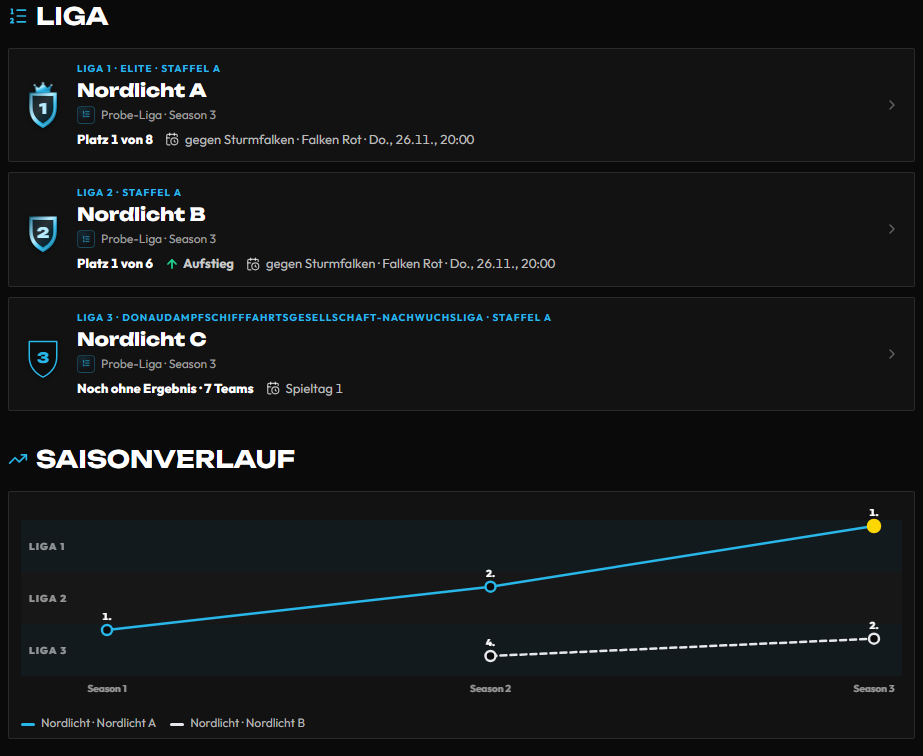
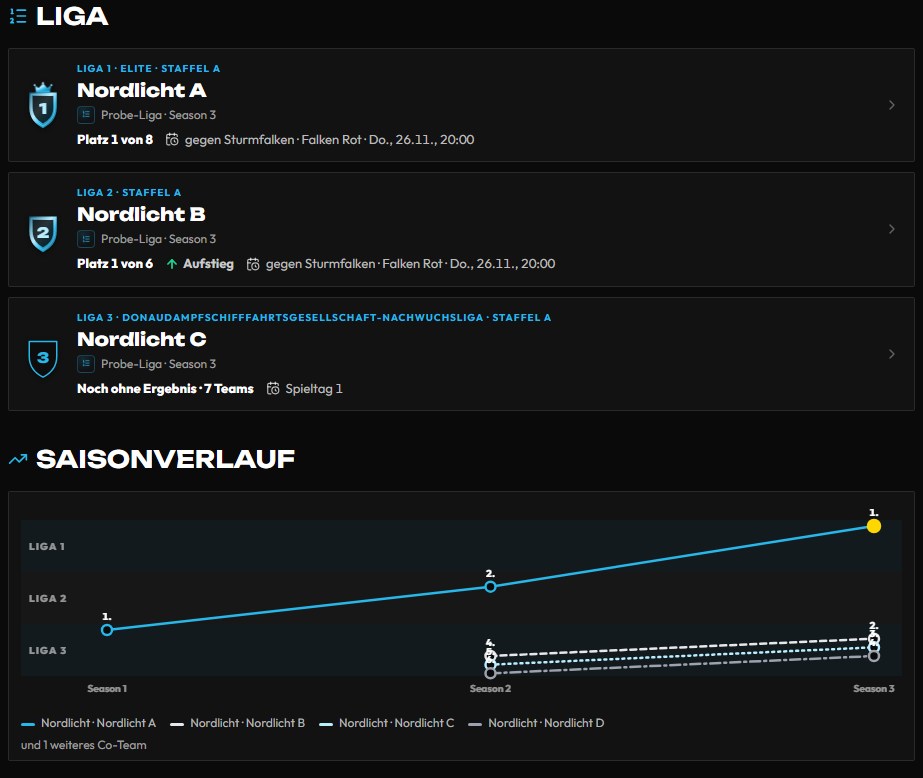
docs: Handbuch zu Meister-Gold und den vier Linien im Saisonverlauf (#1638, #1630)

diff --git a/docs/handbuch/liga.md b/docs/handbuch/liga.md
@@ -1717,7 +1717,7 @@ deren Seite die Person nicht öffnen darf, steht ohne Link da.
 
 **Liga-Abzeichen (#1638):** Überall, wo eine Liga N steht, zeigt ein Wappen mit ihrer Zahl die Stufe: **Liga 1** trägt eine Krone,
 einen doppelten Rand und einen zarten Glanz, **Liga 2** den doppelten Rand, ab **Liga 3** nur die Kontur. Die Farbe ist Cyan; **Gold**
-bekommt nur das Co-Team, das die Season gewonnen hat (Meister in der Season-Historie). Der Beiname der Liga N (2.3, z. B. „Elite“)
+tragen nur Wappen und das Wort „Meister“ beim Co-Team, das die Season gewonnen hat (Season-Historie); der Beiname bleibt Cyan. Der Beiname der Liga N (2.3, z. B. „Elite“)
 steht als Text daneben: „Liga 1 · Elite“. Zu sehen im Kopf jeder Liga N auf der Ligaseite, in **Aktuelle Ligen**, auf der Teamseite
 (Abschnitt *Liga*), in der Season-Historie und in der Gesamtwertung. Beim ersten Erscheinen setzt sich die Krone einmal auf und der
 Glanz läuft einmal darüber; mit „Bewegung reduzieren“ steht alles still.
@@ -1735,7 +1735,8 @@ selbst alles. Die Teamseite zeigt im Abschnitt *Liga* dieselben Karten für alle
 
 **Saisonverlauf:** Ab zwei abgeschlossenen Seasons zeigen Spielerprofil und Teamseite eine Linie: je Season ein Punkt, Liga N als
 Band, der Platz am Punkt, der Meister in Gold. Ein Aufstieg hebt die Linie, auch wenn der Platz in der höheren Liga N schlechter ist.
-Auf der Teamseite hat jedes Co-Team eine eigene Linie mit Legende.
+Auf der Teamseite hat jedes Co-Team eine eigene Linie mit Legende – höchstens vier, die besten zuerst (aktuelle Liga N, dann Platz);
+gibt es mehr, steht darunter „und N weitere Co-Teams“.
 
 <img src="../assets/liga/teamseite-liga-1440.png" alt="Teamseite am PC: Abschnitt Liga mit drei Co-Teams nach Liga N sortiert, darunter der Saisonverlauf mit einer Linie je Co-Team" width="720">
 
